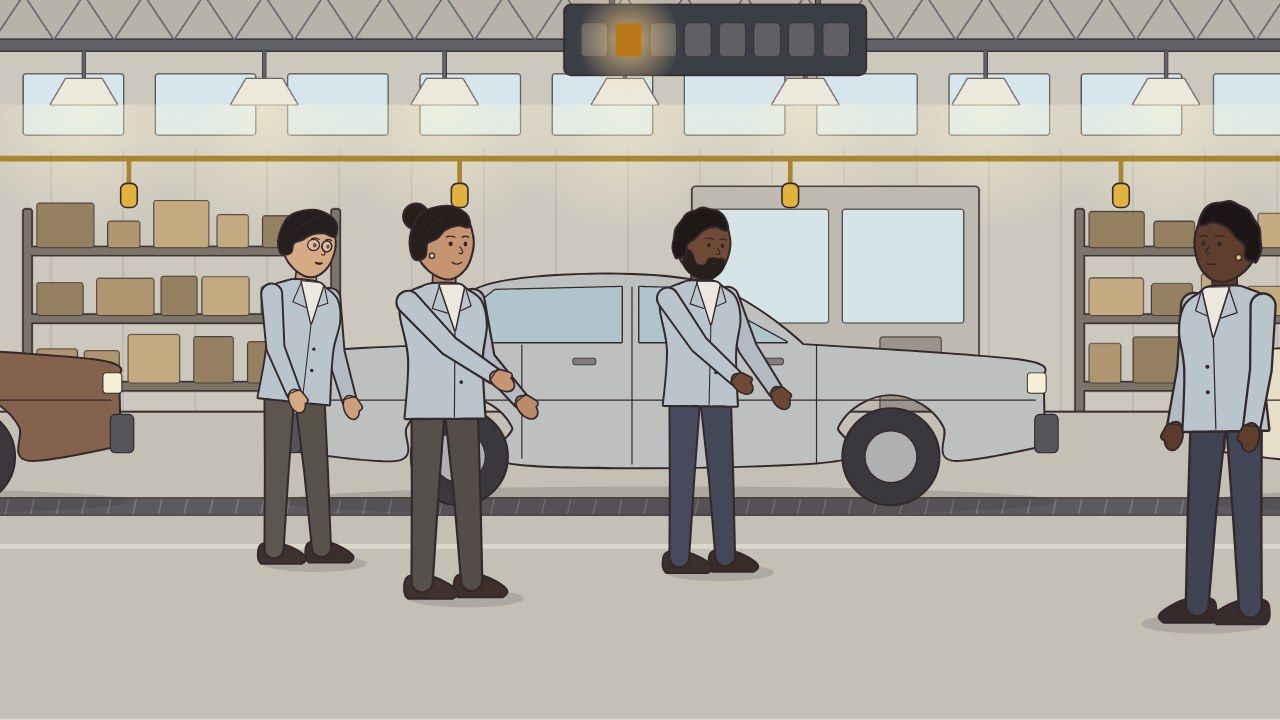
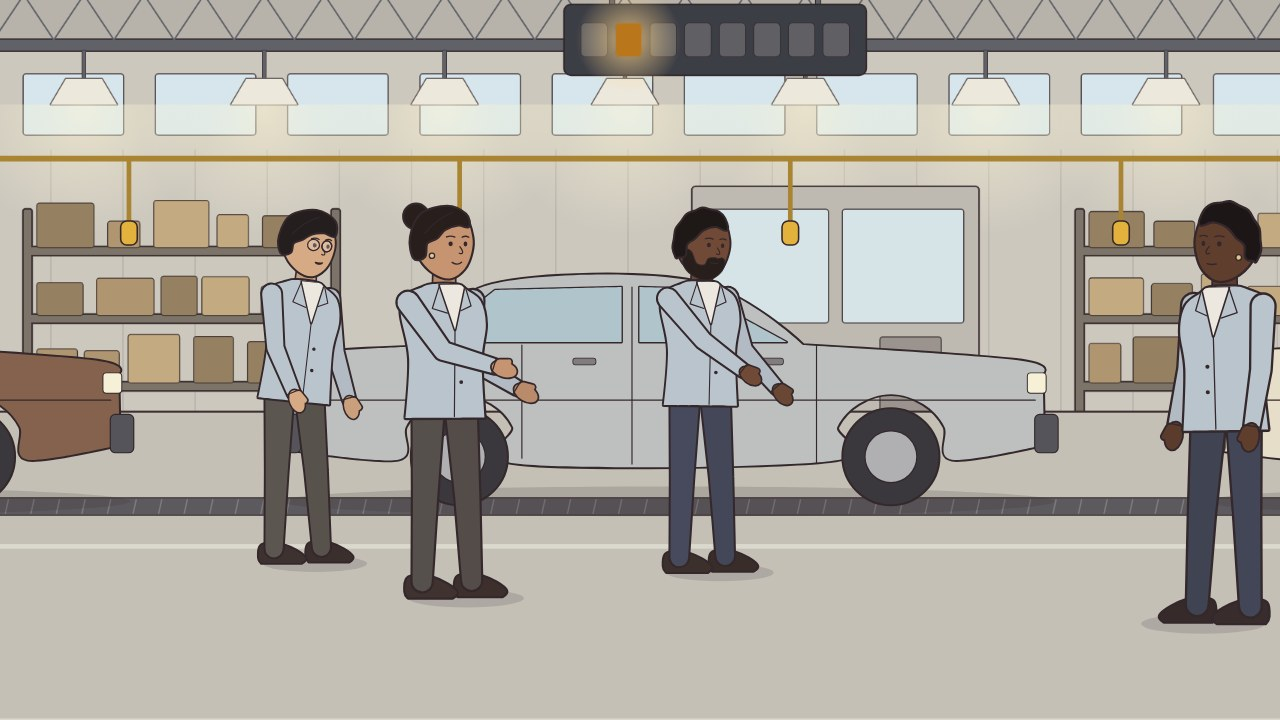
When someone falls behind: every hand on the line reaches the car, the cord and the form (#446)
The people kit's check of arms and depth (#442) listed 25 finds. Workers' hands rest on the car's body within an arm's length; the cord's handles hang lower; Joe walks nearer the supervisor, who takes the form in the far hand; Graham stands nearer Tomás's desk; Tomás writes where his hand reaches; the seminar's board is written 56 px lower. Only pictures change: the boards' times are the same, so the sound stays. The film leaves site-tools/people_later.json.

diff --git a/site/assets/when-someone-falls-behind/film.js b/site/assets/when-someone-falls-behind/film.js
@@ -2518,9 +2518,9 @@ function fb_lamps(ctx,i,a){if(!(a>0.004))return;const U=PK.u,[bx,by]=FB_H.board,
 const FB_PULLS=[180,620,1060,1500,1900];
 function fb_cord(ctx,pull){const S=PK.S,U=PK.u,y=FB_H.cord;S.begin(ctx,{lw:2.6,sh:3});const col=[226,178,60];
   S.line(ctx,c=>{c.moveTo(-40,y);for(const x of FB_PULLS){const d=pull&&Math.abs(pull[0]-x)<1?pull[1]*26:0;c.lineTo(x,y+d);}c.lineTo(1960,y);},U.dk(col,0.3),3);
-  for(const x of FB_PULLS){const d=pull&&Math.abs(pull[0]-x)<1?pull[1]*26:0;S.line(ctx,c=>{c.moveTo(x,y+d);c.lineTo(x,y+d+36);},U.dk(col,0.3),2.4);S.fill(ctx,c=>U.rrect(c,x-10,y+d+34,20,30,7),col,{w:0.8});}}
+  for(const x of FB_PULLS){const d=pull&&Math.abs(pull[0]-x)<1?pull[1]*26:0;S.line(ctx,c=>{c.moveTo(x,y+d);c.lineTo(x,y+d+86);},U.dk(col,0.3),2.4);S.fill(ctx,c=>U.rrect(c,x-10,y+d+84,20,30,7),col,{w:0.8});}}
 // where a pull's handle is, for the hand that pulls it
-const fb_pullAt=(x,k)=>[x,FB_H.cord+(k||0)*26+50];
+const fb_pullAt=(x,k)=>[x,FB_H.cord+(k||0)*26+100];
 // a station's tool, hanging on its spring from above (for the empty place in 1982: it hangs there, nobody at it)
 function fb_tool(ctx,x,y,sw){const S=PK.S,U=PK.u,a=(sw||0);S.begin(ctx,{lw:2,sh:3});const tip=[x+Math.sin(a)*180,y+Math.cos(a)*180];
   S.line(ctx,c=>{c.moveTo(x,0);c.lineTo(x,y);c.lineTo(tip[0],tip[1]);},[70,70,76],1.2);S.fill(ctx,c=>U.rrect(c,x-14,y-30,28,32,6),[80,84,92],{w:0.6});
@@ -2722,7 +2722,7 @@ function fb_corner(x,tt,o){o=o||{};const U=PK.u,S=PK.S,{F,H,hx,ix,tx,rx,ty,win}=
   const bx=U.lerp(tx+150,tx+20,bk);if(o.write!=null||o.book!=null){S.begin(x,{lw:2.4,far:0,sh:3});PK.notebook(x,bx,ty+6,1.5,{open:true,cover:FB_TCOVER});}
   const helena=PK.person(x,"helena",hx,F,H,hp,Object.assign({t:tt,part:"upper",expr:o.he,gaze:o.hg||[1,0.2+0.5*rd]},o.hf||{},{
     reachN:lap>0.004?[U.lerp(790,tx-120,ty_),ty-12]:[U.lerp(790,838,ask),ty-4-40*ask],reachF:lap>0.004?[U.lerp(806,tx-150,ty_),ty-8]:[806,ty-12]}));
-  let tomas=null;if(tom){const pen=wr>0.004||o.pen,hand=[U.lerp(tx+120,bx-20+Math.sin(tt*9)*3*wr,Math.max(wr,0.8*bk)),ty-10];
+  let tomas=null;if(tom){const pen=wr>0.004||o.pen,hand=[Math.max(tx+70,U.lerp(tx+120,bx-20+Math.sin(tt*9)*3*wr,Math.max(wr,0.8*bk))),ty-10];
     tomas=PK.person(x,"tomas",ix,F,H,tp,Object.assign({t:tt+1,flip:true,part:"upper",expr:o.te,gaze:o.tg||[1,U.lerp(U.lerp(1,-0.2,up),0.9,Math.max(wr,rd))]},o.tf||{},{
       reachN:hand,reachNk:1,reachF:[tx+190,ty-10],hold:pen?PK.inHand.pen("blue"):null,holds:!!pen}));}
   return{helena,tomas,laptop:scr};}
@@ -2747,7 +2747,7 @@ function fb_seminarPlace(c){const S=PK.S,P=PK.paint,b=FB_SE.board;P.wall(c,PK.co
   PK.door(c,1560,800,210,500,{col:PK.col("doorCool"),glass:true});
   S.begin(c,{lw:3,far:0.1,sh:5});PK.pot(c,1408,802,92,80);PK.plant(c,1408,722,1.0,6,0);}
 // Carmen's board in the room: the same rows as the board seen close, small
-const FB_SB={x:656,y:216,k:0.35,deco:true,floor:850,rest:1236};
+const FB_SB={x:656,y:272,k:0.35,deco:true,floor:850,rest:1236};
 const fb_roomBoard=(cx,tt,rows,who,o)=>PK.teach(cx,who,tt,rows,Object.assign({},FB_SB,{h:fb_hS(FB_SB.floor)},o||{}));
 /* the session: two managers at the back, and Helena nearest, her notebook on her knee and a pen in her hand, all turned to the board.
    o.rows: the board's rows; o.say: when Carmen speaks; o.events: PK.face's, for her; o.note (0 to 1): Helena looks down and writes;
@@ -2880,8 +2880,8 @@ const fb_path=(x0,f0,x1,f1)=>x=>PK.u.lerp(f0,f1,PK.u.clamp((x-x0)/(x1-x0),0,1));
 const FB_DEF82={"-1":"gone",0:"odd",1:"gone",2:"odd",3:"gone"};
 const fb_cars82=i=>fb_carOf(i,{doors:FB_DEF82});
 function fb_atCar(cars,sx,tt,dir){const U=PK.u;let m=-1e9;for(const c of cars)m=Math.max(m,470-Math.abs(c.x-sx));
-  const k0=U.clamp(m/90,0,1),k=k0*k0*(3-2*k0),s=Math.sin(tt*2.3+sx*0.01)*10,y=FB_H.line-150+Math.cos(tt*1.7+sx*0.01)*6;
-  return{k,n:[sx+dir*(78+s),y],f:[sx+dir*(124-0.6*s),y+16]};}
+  const k0=U.clamp(m/90,0,1),k=k0*k0*(3-2*k0),s=Math.sin(tt*2.3+sx*0.01)*10,y=FB_H.line-176+Math.cos(tt*1.7+sx*0.01)*6;
+  return{k,n:[sx+dir*(72+0.6*s),y],f:[sx+dir*(116-0.4*s),y+16]};}
 // what a worker's hands do: on the car (fb_atCar), or reaching for something else, w (0 to 1) of the way, at to
 const fb_hands=(W,at,w,atF)=>{const U=PK.u,k=U.clamp(w||0,0,1);return{reachN:k>0.004?[U.lerp(W.n[0],at[0],k),U.lerp(W.n[1],at[1],k)]:W.n,reachNk:Math.max(W.k,k),
   reachF:atF&&k>0.004?[U.lerp(W.f[0],atF[0],k),U.lerp(W.f[1],atF[1],k)]:W.f,reachFk:W.k*(1-k)+(atF?k:0)};};
@@ -2928,13 +2928,13 @@ scene("nummi",(ctx,S,t,sc)=>{const c=sc.cues,w=(id,word,off)=>wAt(sc,id,word,off
       const Jm=PK.walk(x,K.mgr,tt,{x0:-160,x1:1620,t0:tm,t1:tq,floor:842,h:fb_hH(842),then:"stand"},
         Object.assign({},PK.face(tt,{expr:"think",gaze:[1,0.1]},[[c.blame,"say",1.8],[tq+2.4,"nod"]])));
       const give=ag_io(tt,tg+0.3,tg+1.5,0.4),take=ag_in(tt,tg+0.7,0.4),got=tt>=tg+1.0,read=ag_in(tt,tg+1.4,0.6),put=ag_in(tt,c.cars+0.4,0.6),done=tt>=c.cars+1.0,back=ag_in(tt,c.cars+1.0,0.5),
-        hand=[U.lerp(U.lerp(1636,1720,read),1660,put),U.lerp(U.lerp(612,596,read),574,put)];
-      PK.person(x,K.boss,1800,846,fb_hH(846),"listen",Object.assign({t:tt,flip:true,hold:got&&!done?fb_form:null,reachN:hand,reachNk:take*(1-back)},PK.face(tt,{expr:"neutral",gaze:[1,0.5]},
+        hand=[U.lerp(U.lerp(1672,1720,read),1660,put),U.lerp(U.lerp(604,596,read),574,put)];
+      PK.person(x,K.boss,1800,846,fb_hH(846),"listen",Object.assign({t:tt,flip:true,underF:got&&!done?fb_form:null,holds:got&&!done,reachF:hand,reachFk:take*(1-back)},PK.face(tt,{expr:"neutral",gaze:[1,0.5]},
         [[tg+0.2,"look",1.2,[1,0.15]],[tg+1.6,"think",3.0],[tq+0.2,"look",3.2,[1,-0.05]],[tq+0.8,"nods"]])));
       PK.S.begin(x,{lw:3,sh:4});const Dk=fb_desk(x,1780,880,fb_hH(880),3);if(done)fb_sheet(x,Dk.piles[1],1.2);
       // Joe brings one more complaint, and goes back to the line
-      const j1={x0:-150,x1:1530,t0:c.name+0.4,t1:tg+0.3,floor:912,h:fb_hH(912),then:"stand"},j2={x0:1530,x1:-170,t0:tg+2.6,t1:tg+10.4,floor:912,h:fb_hH(912),before:"stand"};
-      if(tt<j2.t0)PK.walk(x,K.joe,tt,j1,Object.assign({hold:got?null:fb_form,flip:ag_in(tt,tg+2.0,0.5),reachN:[1618,614],reachNk:give},PK.face(tt,{expr:"worry",gaze:[1,0.1]},[[tg+0.3,"say",1.0]])));
+      const j1={x0:-150,x1:1600,t0:c.name+0.4,t1:tg+0.3,floor:912,h:fb_hH(912),then:"stand"},j2={x0:1600,x1:-170,t0:tg+2.6,t1:tg+10.4,floor:912,h:fb_hH(912),before:"stand"};
+      if(tt<j2.t0)PK.walk(x,K.joe,tt,j1,Object.assign({hold:got?null:fb_form,flip:ag_in(tt,tg+2.0,0.5),reachN:[1672,606],reachNk:give},PK.face(tt,{expr:"worry",gaze:[1,0.1]},[[tg+0.3,"say",1.0]])));
       else PK.walk(x,K.joe,tt,j2,{expr:"worry",gaze:[1,0.2]});
       fb_say(x,Jm,tt,c.blame,tG-0.3,["The problem is the workers."],cam);}},
     // what it meant: a family with a car that keeps going wrong; and Ray, at a gate that stays shut
@@ -3081,7 +3081,7 @@ scene("behind",(ctx,S,t,sc)=>{const c=sc.cues,w=(id,word,off)=>wAt(sc,id,word,of
       if(tt<tTake+0.1){hand=hA;hk=ag_in(tt,3.6,0.4);}else if(tt<tPut-0.5){hand=[U.lerp(hA[0],carry[0],dn1),U.lerp(hA[1],carry[1],dn1)];hk=1;}
       else{hand=[U.lerp(carry[0],hB[0],up2),U.lerp(carry[1],hB[1],up2)];hk=1-ag_in(tt,tPut+0.1,0.4);}
       const rev=w("code","reviewed",0.2),t41=w("days","41",-0.2),t24=w("days","24",0.2),p=ag_in(tt,t41,t24-t41),gk=w("tomas","who reads",-0.2);
-      const G1={x0:2040,x1:860,t0:tG,t1:tG+2.3,floor:905,h:fb_hT,then:"stand"},G2={x0:860,x1:2040,t0:33.0,t1:35.4,floor:905,h:fb_hT,before:"stand"},
+      const G1={x0:2040,x1:828,t0:tG,t1:tG+2.3,floor:905,h:fb_hT,then:"stand"},G2={x0:828,x1:2040,t0:33.0,t1:35.4,floor:905,h:fb_hT,before:"stand"},
         turn=ag_io(tt,tG+2.0,33.2,0.5),wk2=ag_in(tt,c.less+0.2,0.6);
       const R=fb_team(x,tt,{clock:9.1,notes:tt<tPut?0.25:0.375,lift:held?0.5:null,binders:1,show:fb_scrOld,
         sam:Object.assign({work:1-0.5*ag_io(tt,rev+0.3,c.days+3.0,0.5)},PK.face(tt,{expr:"think",gaze:[1,0.2]},[[rev+0.4,"look",2.4,[1,0.05]],[rev+0.6,"smile",2.6],[c.days+0.8,"look",1.8,[-1,-0.1]],[t24,"smile",2.4]])),

diff --git a/films/ownership-and-performance/3-when-someone-falls-behind/source/src/fb_scenes.js b/films/ownership-and-performance/3-when-someone-falls-behind/source/src/fb_scenes.js
@@ -28,8 +28,8 @@ const fb_path=(x0,f0,x1,f1)=>x=>PK.u.lerp(f0,f1,PK.u.clamp((x-x0)/(x1-x0),0,1));
 const FB_DEF82={"-1":"gone",0:"odd",1:"gone",2:"odd",3:"gone"};
 const fb_cars82=i=>fb_carOf(i,{doors:FB_DEF82});
 function fb_atCar(cars,sx,tt,dir){const U=PK.u;let m=-1e9;for(const c of cars)m=Math.max(m,470-Math.abs(c.x-sx));
-  const k0=U.clamp(m/90,0,1),k=k0*k0*(3-2*k0),s=Math.sin(tt*2.3+sx*0.01)*10,y=FB_H.line-150+Math.cos(tt*1.7+sx*0.01)*6;
-  return{k,n:[sx+dir*(78+s),y],f:[sx+dir*(124-0.6*s),y+16]};}
+  const k0=U.clamp(m/90,0,1),k=k0*k0*(3-2*k0),s=Math.sin(tt*2.3+sx*0.01)*10,y=FB_H.line-176+Math.cos(tt*1.7+sx*0.01)*6;
+  return{k,n:[sx+dir*(72+0.6*s),y],f:[sx+dir*(116-0.4*s),y+16]};}
 // what a worker's hands do: on the car (fb_atCar), or reaching for something else, w (0 to 1) of the way, at to
 const fb_hands=(W,at,w,atF)=>{const U=PK.u,k=U.clamp(w||0,0,1);return{reachN:k>0.004?[U.lerp(W.n[0],at[0],k),U.lerp(W.n[1],at[1],k)]:W.n,reachNk:Math.max(W.k,k),
   reachF:atF&&k>0.004?[U.lerp(W.f[0],atF[0],k),U.lerp(W.f[1],atF[1],k)]:W.f,reachFk:W.k*(1-k)+(atF?k:0)};};
@@ -76,13 +76,13 @@ scene("nummi",(ctx,S,t,sc)=>{const c=sc.cues,w=(id,word,off)=>wAt(sc,id,word,off
       const Jm=PK.walk(x,K.mgr,tt,{x0:-160,x1:1620,t0:tm,t1:tq,floor:842,h:fb_hH(842),then:"stand"},
         Object.assign({},PK.face(tt,{expr:"think",gaze:[1,0.1]},[[c.blame,"say",1.8],[tq+2.4,"nod"]])));
       const give=ag_io(tt,tg+0.3,tg+1.5,0.4),take=ag_in(tt,tg+0.7,0.4),got=tt>=tg+1.0,read=ag_in(tt,tg+1.4,0.6),put=ag_in(tt,c.cars+0.4,0.6),done=tt>=c.cars+1.0,back=ag_in(tt,c.cars+1.0,0.5),
-        hand=[U.lerp(U.lerp(1636,1720,read),1660,put),U.lerp(U.lerp(612,596,read),574,put)];
-      PK.person(x,K.boss,1800,846,fb_hH(846),"listen",Object.assign({t:tt,flip:true,hold:got&&!done?fb_form:null,reachN:hand,reachNk:take*(1-back)},PK.face(tt,{expr:"neutral",gaze:[1,0.5]},
+        hand=[U.lerp(U.lerp(1672,1720,read),1660,put),U.lerp(U.lerp(604,596,read),574,put)];
+      PK.person(x,K.boss,1800,846,fb_hH(846),"listen",Object.assign({t:tt,flip:true,underF:got&&!done?fb_form:null,holds:got&&!done,reachF:hand,reachFk:take*(1-back)},PK.face(tt,{expr:"neutral",gaze:[1,0.5]},
         [[tg+0.2,"look",1.2,[1,0.15]],[tg+1.6,"think",3.0],[tq+0.2,"look",3.2,[1,-0.05]],[tq+0.8,"nods"]])));
       PK.S.begin(x,{lw:3,sh:4});const Dk=fb_desk(x,1780,880,fb_hH(880),3);if(done)fb_sheet(x,Dk.piles[1],1.2);
       // Joe brings one more complaint, and goes back to the line
-      const j1={x0:-150,x1:1530,t0:c.name+0.4,t1:tg+0.3,floor:912,h:fb_hH(912),then:"stand"},j2={x0:1530,x1:-170,t0:tg+2.6,t1:tg+10.4,floor:912,h:fb_hH(912),before:"stand"};
-      if(tt<j2.t0)PK.walk(x,K.joe,tt,j1,Object.assign({hold:got?null:fb_form,flip:ag_in(tt,tg+2.0,0.5),reachN:[1618,614],reachNk:give},PK.face(tt,{expr:"worry",gaze:[1,0.1]},[[tg+0.3,"say",1.0]])));
+      const j1={x0:-150,x1:1600,t0:c.name+0.4,t1:tg+0.3,floor:912,h:fb_hH(912),then:"stand"},j2={x0:1600,x1:-170,t0:tg+2.6,t1:tg+10.4,floor:912,h:fb_hH(912),before:"stand"};
+      if(tt<j2.t0)PK.walk(x,K.joe,tt,j1,Object.assign({hold:got?null:fb_form,flip:ag_in(tt,tg+2.0,0.5),reachN:[1672,606],reachNk:give},PK.face(tt,{expr:"worry",gaze:[1,0.1]},[[tg+0.3,"say",1.0]])));
       else PK.walk(x,K.joe,tt,j2,{expr:"worry",gaze:[1,0.2]});
       fb_say(x,Jm,tt,c.blame,tG-0.3,["The problem is the workers."],cam);}},
     // what it meant: a family with a car that keeps going wrong; and Ray, at a gate that stays shut
@@ -229,7 +229,7 @@ scene("behind",(ctx,S,t,sc)=>{const c=sc.cues,w=(id,word,off)=>wAt(sc,id,word,of
       if(tt<tTake+0.1){hand=hA;hk=ag_in(tt,3.6,0.4);}else if(tt<tPut-0.5){hand=[U.lerp(hA[0],carry[0],dn1),U.lerp(hA[1],carry[1],dn1)];hk=1;}
       else{hand=[U.lerp(carry[0],hB[0],up2),U.lerp(carry[1],hB[1],up2)];hk=1-ag_in(tt,tPut+0.1,0.4);}
       const rev=w("code","reviewed",0.2),t41=w("days","41",-0.2),t24=w("days","24",0.2),p=ag_in(tt,t41,t24-t41),gk=w("tomas","who reads",-0.2);
-      const G1={x0:2040,x1:860,t0:tG,t1:tG+2.3,floor:905,h:fb_hT,then:"stand"},G2={x0:860,x1:2040,t0:33.0,t1:35.4,floor:905,h:fb_hT,before:"stand"},
+      const G1={x0:2040,x1:828,t0:tG,t1:tG+2.3,floor:905,h:fb_hT,then:"stand"},G2={x0:828,x1:2040,t0:33.0,t1:35.4,floor:905,h:fb_hT,before:"stand"},
         turn=ag_io(tt,tG+2.0,33.2,0.5),wk2=ag_in(tt,c.less+0.2,0.6);
       const R=fb_team(x,tt,{clock:9.1,notes:tt<tPut?0.25:0.375,lift:held?0.5:null,binders:1,show:fb_scrOld,
         sam:Object.assign({work:1-0.5*ag_io(tt,rev+0.3,c.days+3.0,0.5)},PK.face(tt,{expr:"think",gaze:[1,0.2]},[[rev+0.4,"look",2.4,[1,0.05]],[rev+0.6,"smile",2.6],[c.days+0.8,"look",1.8,[-1,-0.1]],[t24,"smile",2.4]])),

diff --git a/films/ownership-and-performance/3-when-someone-falls-behind/source/src/fb_uni.js b/films/ownership-and-performance/3-when-someone-falls-behind/source/src/fb_uni.js
@@ -154,7 +154,7 @@ function fb_corner(x,tt,o){o=o||{};const U=PK.u,S=PK.S,{F,H,hx,ix,tx,rx,ty,win}=
   const bx=U.lerp(tx+150,tx+20,bk);if(o.write!=null||o.book!=null){S.begin(x,{lw:2.4,far:0,sh:3});PK.notebook(x,bx,ty+6,1.5,{open:true,cover:FB_TCOVER});}
   const helena=PK.person(x,"helena",hx,F,H,hp,Object.assign({t:tt,part:"upper",expr:o.he,gaze:o.hg||[1,0.2+0.5*rd]},o.hf||{},{
     reachN:lap>0.004?[U.lerp(790,tx-120,ty_),ty-12]:[U.lerp(790,838,ask),ty-4-40*ask],reachF:lap>0.004?[U.lerp(806,tx-150,ty_),ty-8]:[806,ty-12]}));
-  let tomas=null;if(tom){const pen=wr>0.004||o.pen,hand=[U.lerp(tx+120,bx-20+Math.sin(tt*9)*3*wr,Math.max(wr,0.8*bk)),ty-10];
+  let tomas=null;if(tom){const pen=wr>0.004||o.pen,hand=[Math.max(tx+70,U.lerp(tx+120,bx-20+Math.sin(tt*9)*3*wr,Math.max(wr,0.8*bk))),ty-10];
     tomas=PK.person(x,"tomas",ix,F,H,tp,Object.assign({t:tt+1,flip:true,part:"upper",expr:o.te,gaze:o.tg||[1,U.lerp(U.lerp(1,-0.2,up),0.9,Math.max(wr,rd))]},o.tf||{},{
       reachN:hand,reachNk:1,reachF:[tx+190,ty-10],hold:pen?PK.inHand.pen("blue"):null,holds:!!pen}));}
   return{helena,tomas,laptop:scr};}
@@ -179,7 +179,7 @@ function fb_seminarPlace(c){const S=PK.S,P=PK.paint,b=FB_SE.board;P.wall(c,PK.co
   PK.door(c,1560,800,210,500,{col:PK.col("doorCool"),glass:true});
   S.begin(c,{lw:3,far:0.1,sh:5});PK.pot(c,1408,802,92,80);PK.plant(c,1408,722,1.0,6,0);}
 // Carmen's board in the room: the same rows as the board seen close, small
-const FB_SB={x:656,y:216,k:0.35,deco:true,floor:850,rest:1236};
+const FB_SB={x:656,y:272,k:0.35,deco:true,floor:850,rest:1236};
 const fb_roomBoard=(cx,tt,rows,who,o)=>PK.teach(cx,who,tt,rows,Object.assign({},FB_SB,{h:fb_hS(FB_SB.floor)},o||{}));
 /* the session: two managers at the back, and Helena nearest, her notebook on her knee and a pen in her hand, all turned to the board.
    o.rows: the board's rows; o.say: when Carmen speaks; o.events: PK.face's, for her; o.note (0 to 1): Helena looks down and writes;

diff --git a/films/ownership-and-performance/3-when-someone-falls-behind/source/src/fb_plant.js b/films/ownership-and-performance/3-when-someone-falls-behind/source/src/fb_plant.js
@@ -188,9 +188,9 @@ function fb_lamps(ctx,i,a){if(!(a>0.004))return;const U=PK.u,[bx,by]=FB_H.board,
 const FB_PULLS=[180,620,1060,1500,1900];
 function fb_cord(ctx,pull){const S=PK.S,U=PK.u,y=FB_H.cord;S.begin(ctx,{lw:2.6,sh:3});const col=[226,178,60];
   S.line(ctx,c=>{c.moveTo(-40,y);for(const x of FB_PULLS){const d=pull&&Math.abs(pull[0]-x)<1?pull[1]*26:0;c.lineTo(x,y+d);}c.lineTo(1960,y);},U.dk(col,0.3),3);
-  for(const x of FB_PULLS){const d=pull&&Math.abs(pull[0]-x)<1?pull[1]*26:0;S.line(ctx,c=>{c.moveTo(x,y+d);c.lineTo(x,y+d+36);},U.dk(col,0.3),2.4);S.fill(ctx,c=>U.rrect(c,x-10,y+d+34,20,30,7),col,{w:0.8});}}
+  for(const x of FB_PULLS){const d=pull&&Math.abs(pull[0]-x)<1?pull[1]*26:0;S.line(ctx,c=>{c.moveTo(x,y+d);c.lineTo(x,y+d+86);},U.dk(col,0.3),2.4);S.fill(ctx,c=>U.rrect(c,x-10,y+d+84,20,30,7),col,{w:0.8});}}
 // where a pull's handle is, for the hand that pulls it
-const fb_pullAt=(x,k)=>[x,FB_H.cord+(k||0)*26+50];
+const fb_pullAt=(x,k)=>[x,FB_H.cord+(k||0)*26+100];
 // a station's tool, hanging on its spring from above (for the empty place in 1982: it hangs there, nobody at it)
 function fb_tool(ctx,x,y,sw){const S=PK.S,U=PK.u,a=(sw||0);S.begin(ctx,{lw:2,sh:3});const tip=[x+Math.sin(a)*180,y+Math.cos(a)*180];
   S.line(ctx,c=>{c.moveTo(x,0);c.lineTo(x,y);c.lineTo(tip[0],tip[1]);},[70,70,76],1.2);S.fill(ctx,c=>U.rrect(c,x-14,y-30,28,32,6),[80,84,92],{w:0.6});

diff --git a/films/ownership-and-performance/proposal.md b/films/ownership-and-performance/proposal.md
@@ -74,6 +74,7 @@
 | 18 November 2026 | Its sound keeps the lute-harpsichord, its buff stop and the mark. The music after the opening and every effect are written again for the new pictures, and the effects follow what people do: the gate rolled shut and open, the line heard from its floor and slowing to a stop, a complaint handed over and put on the pile, the cord pulled and the lamp's click, a tick and a note on a clipboard, a sticky note pressed on the board, a report handed to Sam, the binders lifted off the desk, a panel out of a screen or a phone, a blip for each message, and the marker on the board and the pen in a notebook, one soft rub for each row where the film writes it (`tools/pens.py`). Measured by `tools/quiet.py`: after the opening the music sounds 14% of the time and comes in once every 13.5 seconds; the effects' loud moments are at -46.2 dB. |
 | 18 November 2026 | It runs 7:36.2 with the same 957 words, 126 words a minute (the first version 7:18.8): each board and page is left time to be written and read, Helena's ask at his desk has a moment of its own, and the October chat a pause of its own, so *Give it time* falls to 114 words a minute; the film as a whole doesn't. Every line was voiced again and matched its committed length, so the voice is unchanged. |
 | 18 November 2026 | Merged on green, squashed, with the series' Draft label, without waiting for the author's word, as he chose for the series' films on 17 November 2026. A review page with the first version beside this one is offered, not made in the session. |
+| 18 November 2026 | Every hand arrives, after the people kit's check of arms and depth (#442), which found 25. On the assembly line the hands rest on the car's body 26 px higher and nearer (`fb_atCar`); the cord's handles hang 50 px lower (`fb_cord`, `fb_pullAt`); Joe walks 70 px nearer the supervisor, who takes the form in the far hand; Graham stands 32 px nearer Tomás's desk; Tomás writes no further than his hand reaches; the seminar's board is written 56 px lower (`FB_SB.y` 272). The words, the timings, the sound and the captions stay: every row is written at the moment it was (`tools/pens.py` gives the same times). The film leaves `site-tools/people_later.json`. |
 | 18 November 2026 | *Growing people* is made again in ink line with the people kit (`films/people-first/shared`), as *Owning the outcome* and *Measure the work, not the people* were. The author approved the new version of *Owning the outcome* on 17 November 2026 and asked for the series' other films to be made again the same way, the series first and not yet the whole module. The narration, the opening story's four beats, the six chapters, the references, the takeaway, Pause and think and the Spanish captions' words are the same; the pictures, the sound and one line's voice change. |
 | 18 November 2026 | It is staged by the kit's rules: the problem is the occasion, not the subject; two worlds (Japan from 1872: a village school's one classroom, its blackboard in the 1880s, lesson study today in Japan and in the United States, and an office at the end of a day; and the university: the team's room, Helena's corner by day and at a December dusk, and the campus); scenes are moments between people; what people say is said, in bubbles close to the voice's line, which add no fact; no chart; the ideas are written by hand at a board and in notebooks; people call and write as well as meet; and it ends on a person, Ivy standing to meet the next graduate in March 2028. |
 | 18 November 2026 | The opening is told by people in a classroom, where the first version drew a schoolroom, a wall of schools and a ring of steps: in 1872 a village teacher writes the day's sums and asks his class if it's clear, and a girl can't do hers; after school he stands alone with her slate; other days, three teachers come in to watch, and one bends by her desk to see how she answers; afterwards they talk it over in a ring ("Here, they got stuck."); in the 1880s Mr Okada, a head teacher the film names, writes lesson study's four steps on the blackboard; today, a research lesson in Japan; in the United States, a teacher passes the book on, a team gets a researcher's fractions materials, and a girl holds up a strip folded in thirds; and at work, a new analyst alone gets her grade once a year ("Meets expectations."). The classroom has desks, slates and a blackboard, the new kind of school; its teachers wear kimono and hakama, or Western suits by the 1880s. |

diff --git a/films/ownership-and-performance/3-when-someone-falls-behind/decided.md b/films/ownership-and-performance/3-when-someone-falls-behind/decided.md
@@ -20,3 +20,4 @@ This film's rows of the series' *Decided* table in [proposal.md](../proposal.md)
 | 18 November 2026 | Its sound keeps the lute-harpsichord, its buff stop and the mark. The music after the opening and every effect are written again for the new pictures, and the effects follow what people do: the gate rolled shut and open, the line heard from its floor and slowing to a stop, a complaint handed over and put on the pile, the cord pulled and the lamp's click, a tick and a note on a clipboard, a sticky note pressed on the board, a report handed to Sam, the binders lifted off the desk, a panel out of a screen or a phone, a blip for each message, and the marker on the board and the pen in a notebook, one soft rub for each row where the film writes it (`tools/pens.py`). Measured by `tools/quiet.py`: after the opening the music sounds 14% of the time and comes in once every 13.5 seconds; the effects' loud moments are at -46.2 dB. |
 | 18 November 2026 | It runs 7:36.2 with the same 957 words, 126 words a minute (the first version 7:18.8): each board and page is left time to be written and read, Helena's ask at his desk has a moment of its own, and the October chat a pause of its own, so *Give it time* falls to 114 words a minute; the film as a whole doesn't. Every line was voiced again and matched its committed length, so the voice is unchanged. |
 | 18 November 2026 | Merged on green, squashed, with the series' Draft label, without waiting for the author's word, as he chose for the series' films on 17 November 2026. A review page with the first version beside this one is offered, not made in the session. |
+| 18 November 2026 | Every hand arrives, after the people kit's check of arms and depth (#442), which found 25. On the assembly line the hands rest on the car's body 26 px higher and nearer (`fb_atCar`); the cord's handles hang 50 px lower (`fb_cord`, `fb_pullAt`); Joe walks 70 px nearer the supervisor, who takes the form in the far hand; Graham stands 32 px nearer Tomás's desk; Tomás writes no further than his hand reaches; the seminar's board is written 56 px lower (`FB_SB.y` 272). The words, the timings, the sound and the captions stay: every row is written at the moment it was (`tools/pens.py` gives the same times). The film leaves `site-tools/people_later.json`. |

diff --git a/docs/assumptions/10-leading-data-people/5-ownership-and-performance/3-when-someone-falls-behind.md b/docs/assumptions/10-leading-data-people/5-ownership-and-performance/3-when-someone-falls-behind.md
@@ -1,6 +1,6 @@
 # When someone falls behind: questions and assumptions
 
-*Leading data people* · *Ownership and performance*, film 3 of 4 · merged, PR #221 · [pull request](https://github.com/roanboc/learning-data/pull/221); made again in ink line on 18 November 2026 (PR #436)
+*Leading data people* · *Ownership and performance*, film 3 of 4 · merged, PR #221 · [pull request](https://github.com/roanboc/learning-data/pull/221); made again in ink line on 18 November 2026 (PR #436); its arms put right the same day
 
 [Watch it on the site](https://data.learn-all.org/ownership-and-performance/when-someone-falls-behind/)
 
@@ -42,3 +42,4 @@ You approved *Owning the outcome* made again in ink line on 17 November, and ask
 | 21 | Length and pace? | 7:36, the same 957 words at 126 a minute (the first version 7:18). Each board and page is left time to be written and read, Helena's ask at his desk has a moment of its own, and the October chat a pause of 5.2 seconds, so *Give it time* falls to 114 words a minute; the film as a whole doesn't. | The whole film |
 | 22 | The Spanish? | The captions' words are the same, timed again to the new pictures; the page and Pause and think don't change. | The Spanish captions |
 | 23 | Merge now, or wait for you? | Merged on green, squashed, with the series' Draft label, as you chose for the series' films on 17 November. A review page with the first version beside this one can be made on request. | This pull request |
+| 24 | Arms and hands, after the kit's new check? | Put right on 18 November 2026. On the assembly line the workers' hands rest on the car's body, a little higher, within an arm's length: they stopped short in the air, on and off, nineteen times. The cord's handles hang lower, so Joe reaches the one he pulls. He walks nearer the supervisor's desk, who takes the form in the far hand. Graham stands nearer Tomás's desk; Tomás writes where his hand reaches; and the seminar's board is written 56 px lower, within Carmen's reach. The words, the timings and the sound stay. | Chapters 1 to 6 |
